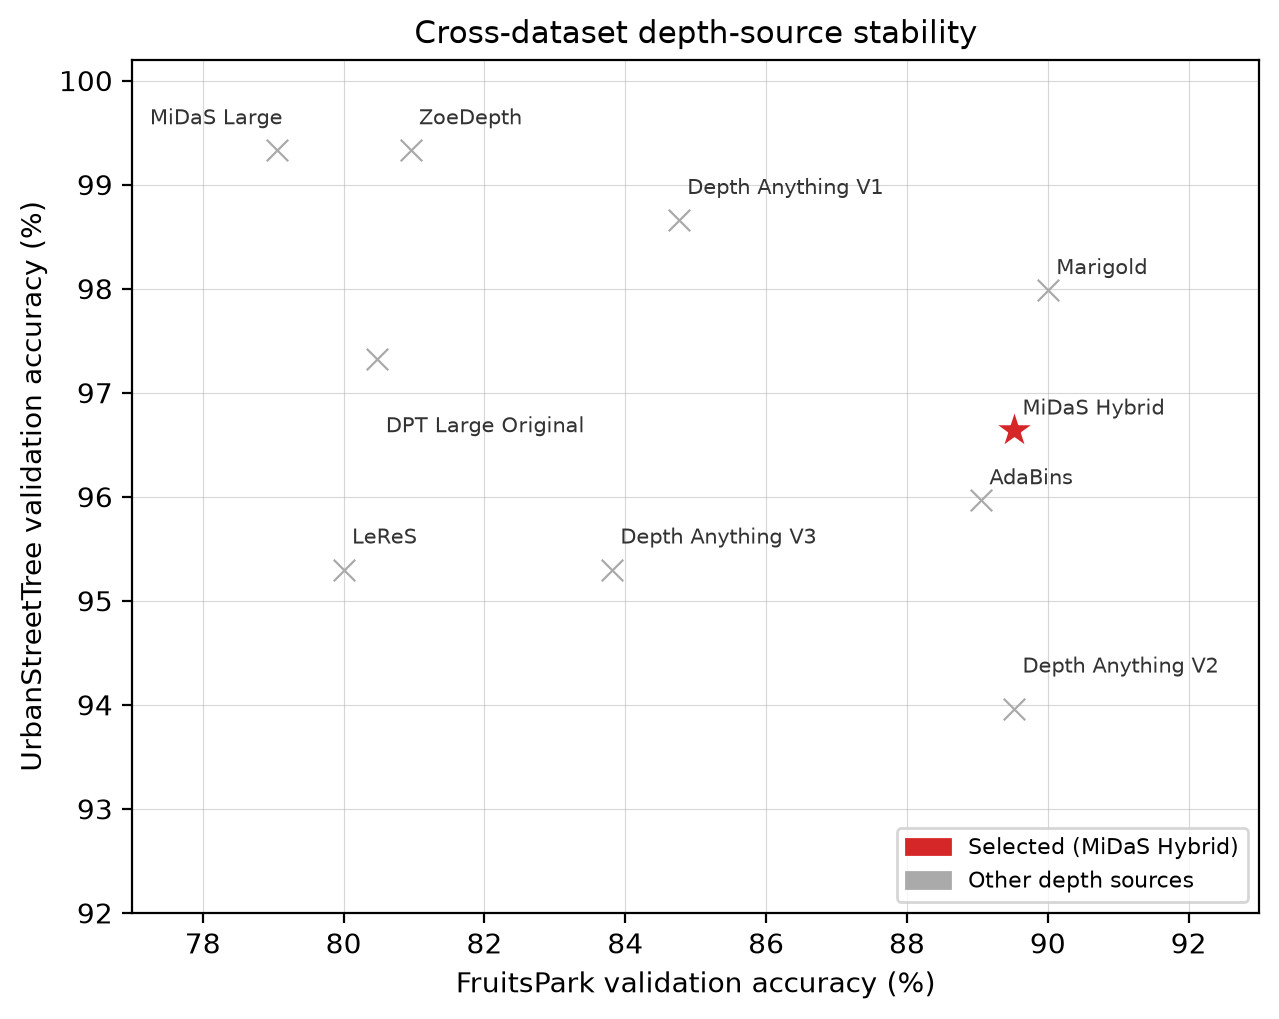
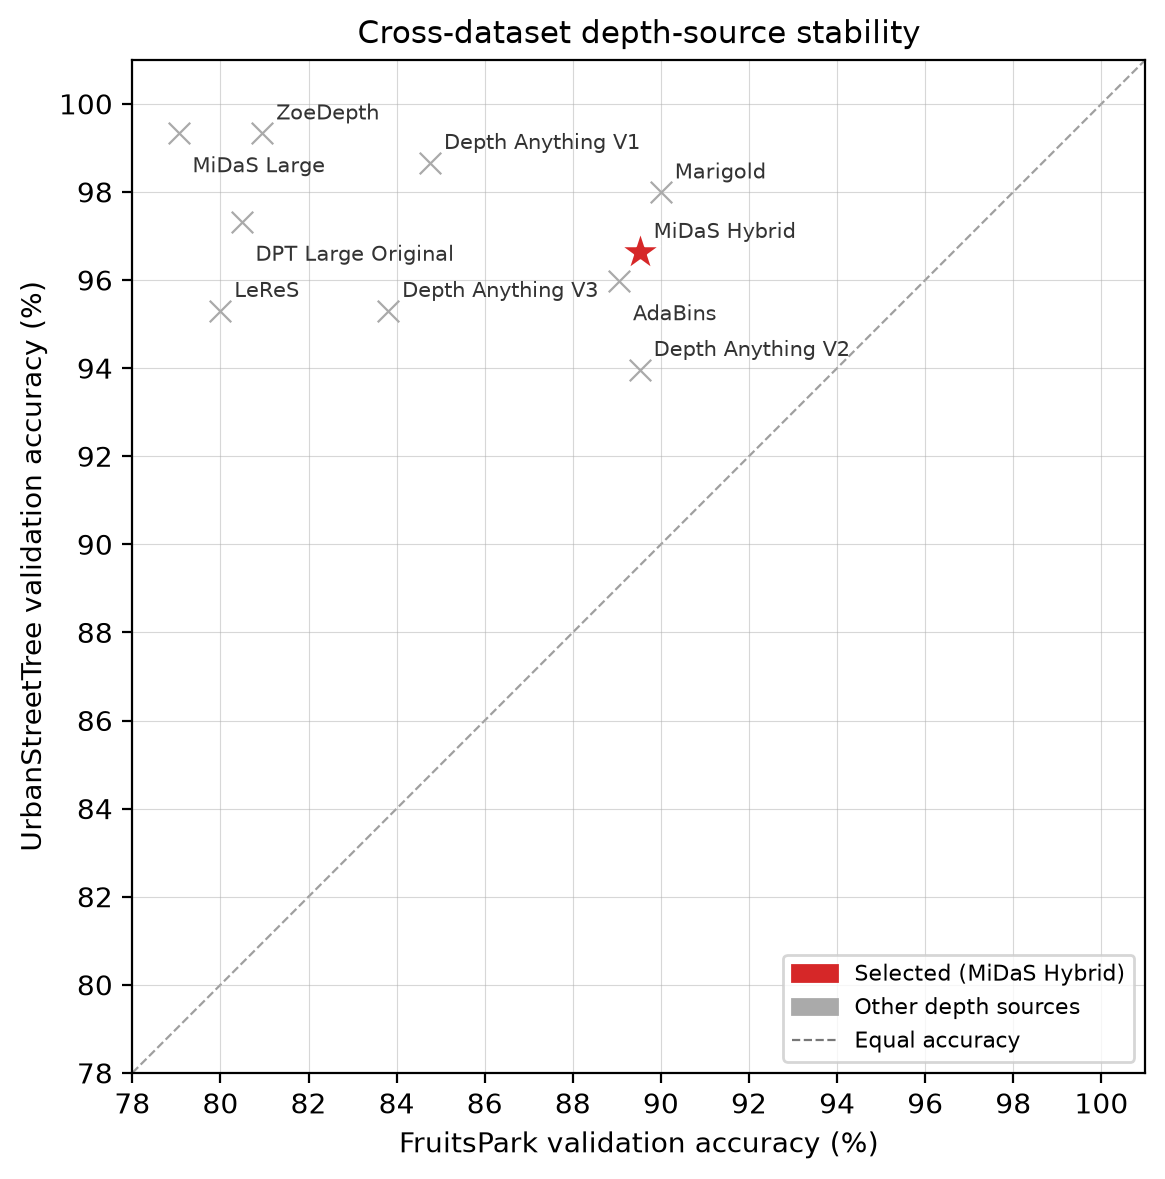
Update depth scatter outputs

diff --git a/IEEE_ACCESS/scripts/make_depth_scatter.py b/IEEE_ACCESS/scripts/make_depth_scatter.py
@@ -21,10 +21,12 @@ colors  = {"selected": "#d62728", "other": "#aaaaaa"}
 markers = {"selected": "*",       "other": "x"}
 sizes   = {"selected": 220,       "other": 60}
 
-fig, ax = plt.subplots(figsize=(6.5, 5.2))
+fig, ax = plt.subplots(figsize=(6.5, 6.0))
 
-xlim = (77, 93.0)
-ylim = (92, 100.2)
+# Use the same range and tick spacing on both axes so that horizontal and
+# vertical differences have the same visual magnitude.
+xlim = (78, 101)
+ylim = (78, 101)
 
 for name, fp, ust, status in data:
     ax.scatter(fp, ust,
@@ -33,21 +35,22 @@ for name, fp, ust, status in data:
                edgecolors="white" if status == "selected" else "none",
                linewidths=0.8)
 
-nudges = {
-    "MiDaS Hybrid":        (+0.12, +0.15),
-    "Marigold":            (+0.12, +0.15),
-    "Depth Anything V2":   (+0.12, +0.35),
-    "AdaBins":             (+0.12, +0.15),
-    "Depth Anything V1":   (+0.12, +0.25),
-    "Depth Anything V3":   (+0.12, +0.25),
-    "ZoeDepth":            (+0.12, +0.25),
-    "DPT Large Original":  (+0.12, -0.70),
-    "LeReS":               (+0.12, +0.25),
-    "MiDaS Large":         (-1.80, +0.25),
+label_offsets = {
+    "MiDaS Hybrid":        (5, 5),
+    "Marigold":            (5, 5),
+    "Depth Anything V2":   (5, 5),
+    "AdaBins":             (5, -14),
+    "Depth Anything V1":   (5, 5),
+    "Depth Anything V3":   (5, 5),
+    "ZoeDepth":            (5, 5),
+    "DPT Large Original":  (5, -14),
+    "LeReS":               (5, 5),
+    "MiDaS Large":         (5, -14),
 }
 for name, fp, ust, status in data:
-    dx, dy = nudges.get(name, (0.1, 0.3))
-    ax.annotate(name, (fp, ust), xytext=(fp + dx, ust + dy),
+    dx, dy = label_offsets.get(name, (5, 5))
+    ax.annotate(name, (fp, ust), xytext=(dx, dy),
+                textcoords="offset points",
                 fontsize=7.5, color="#333333",
                 arrowprops=None)
 
@@ -56,11 +59,19 @@ ax.set_ylabel("UrbanStreetTree validation accuracy (%)", fontsize=10)
 ax.set_title("Cross-dataset depth-source stability", fontsize=11)
 ax.set_xlim(*xlim)
 ax.set_ylim(*ylim)
+ticks = np.arange(78, 101, 2)
+ax.set_xticks(ticks)
+ax.set_yticks(ticks)
+ax.set_aspect("equal", adjustable="box")
+ax.plot(xlim, ylim, linestyle="--", linewidth=0.8, color="#777777",
+        alpha=0.7, zorder=1, label="Equal accuracy")
 ax.grid(True, linewidth=0.4, alpha=0.5)
 
 legend_handles = [
     mpatches.Patch(color=colors["selected"], label="Selected (MiDaS Hybrid)"),
     mpatches.Patch(color=colors["other"],    label="Other depth sources"),
+    plt.Line2D([0], [0], color="#777777", linestyle="--",
+               linewidth=0.8, label="Equal accuracy"),
 ]
 ax.legend(handles=legend_handles, fontsize=8, loc="lower right")
 